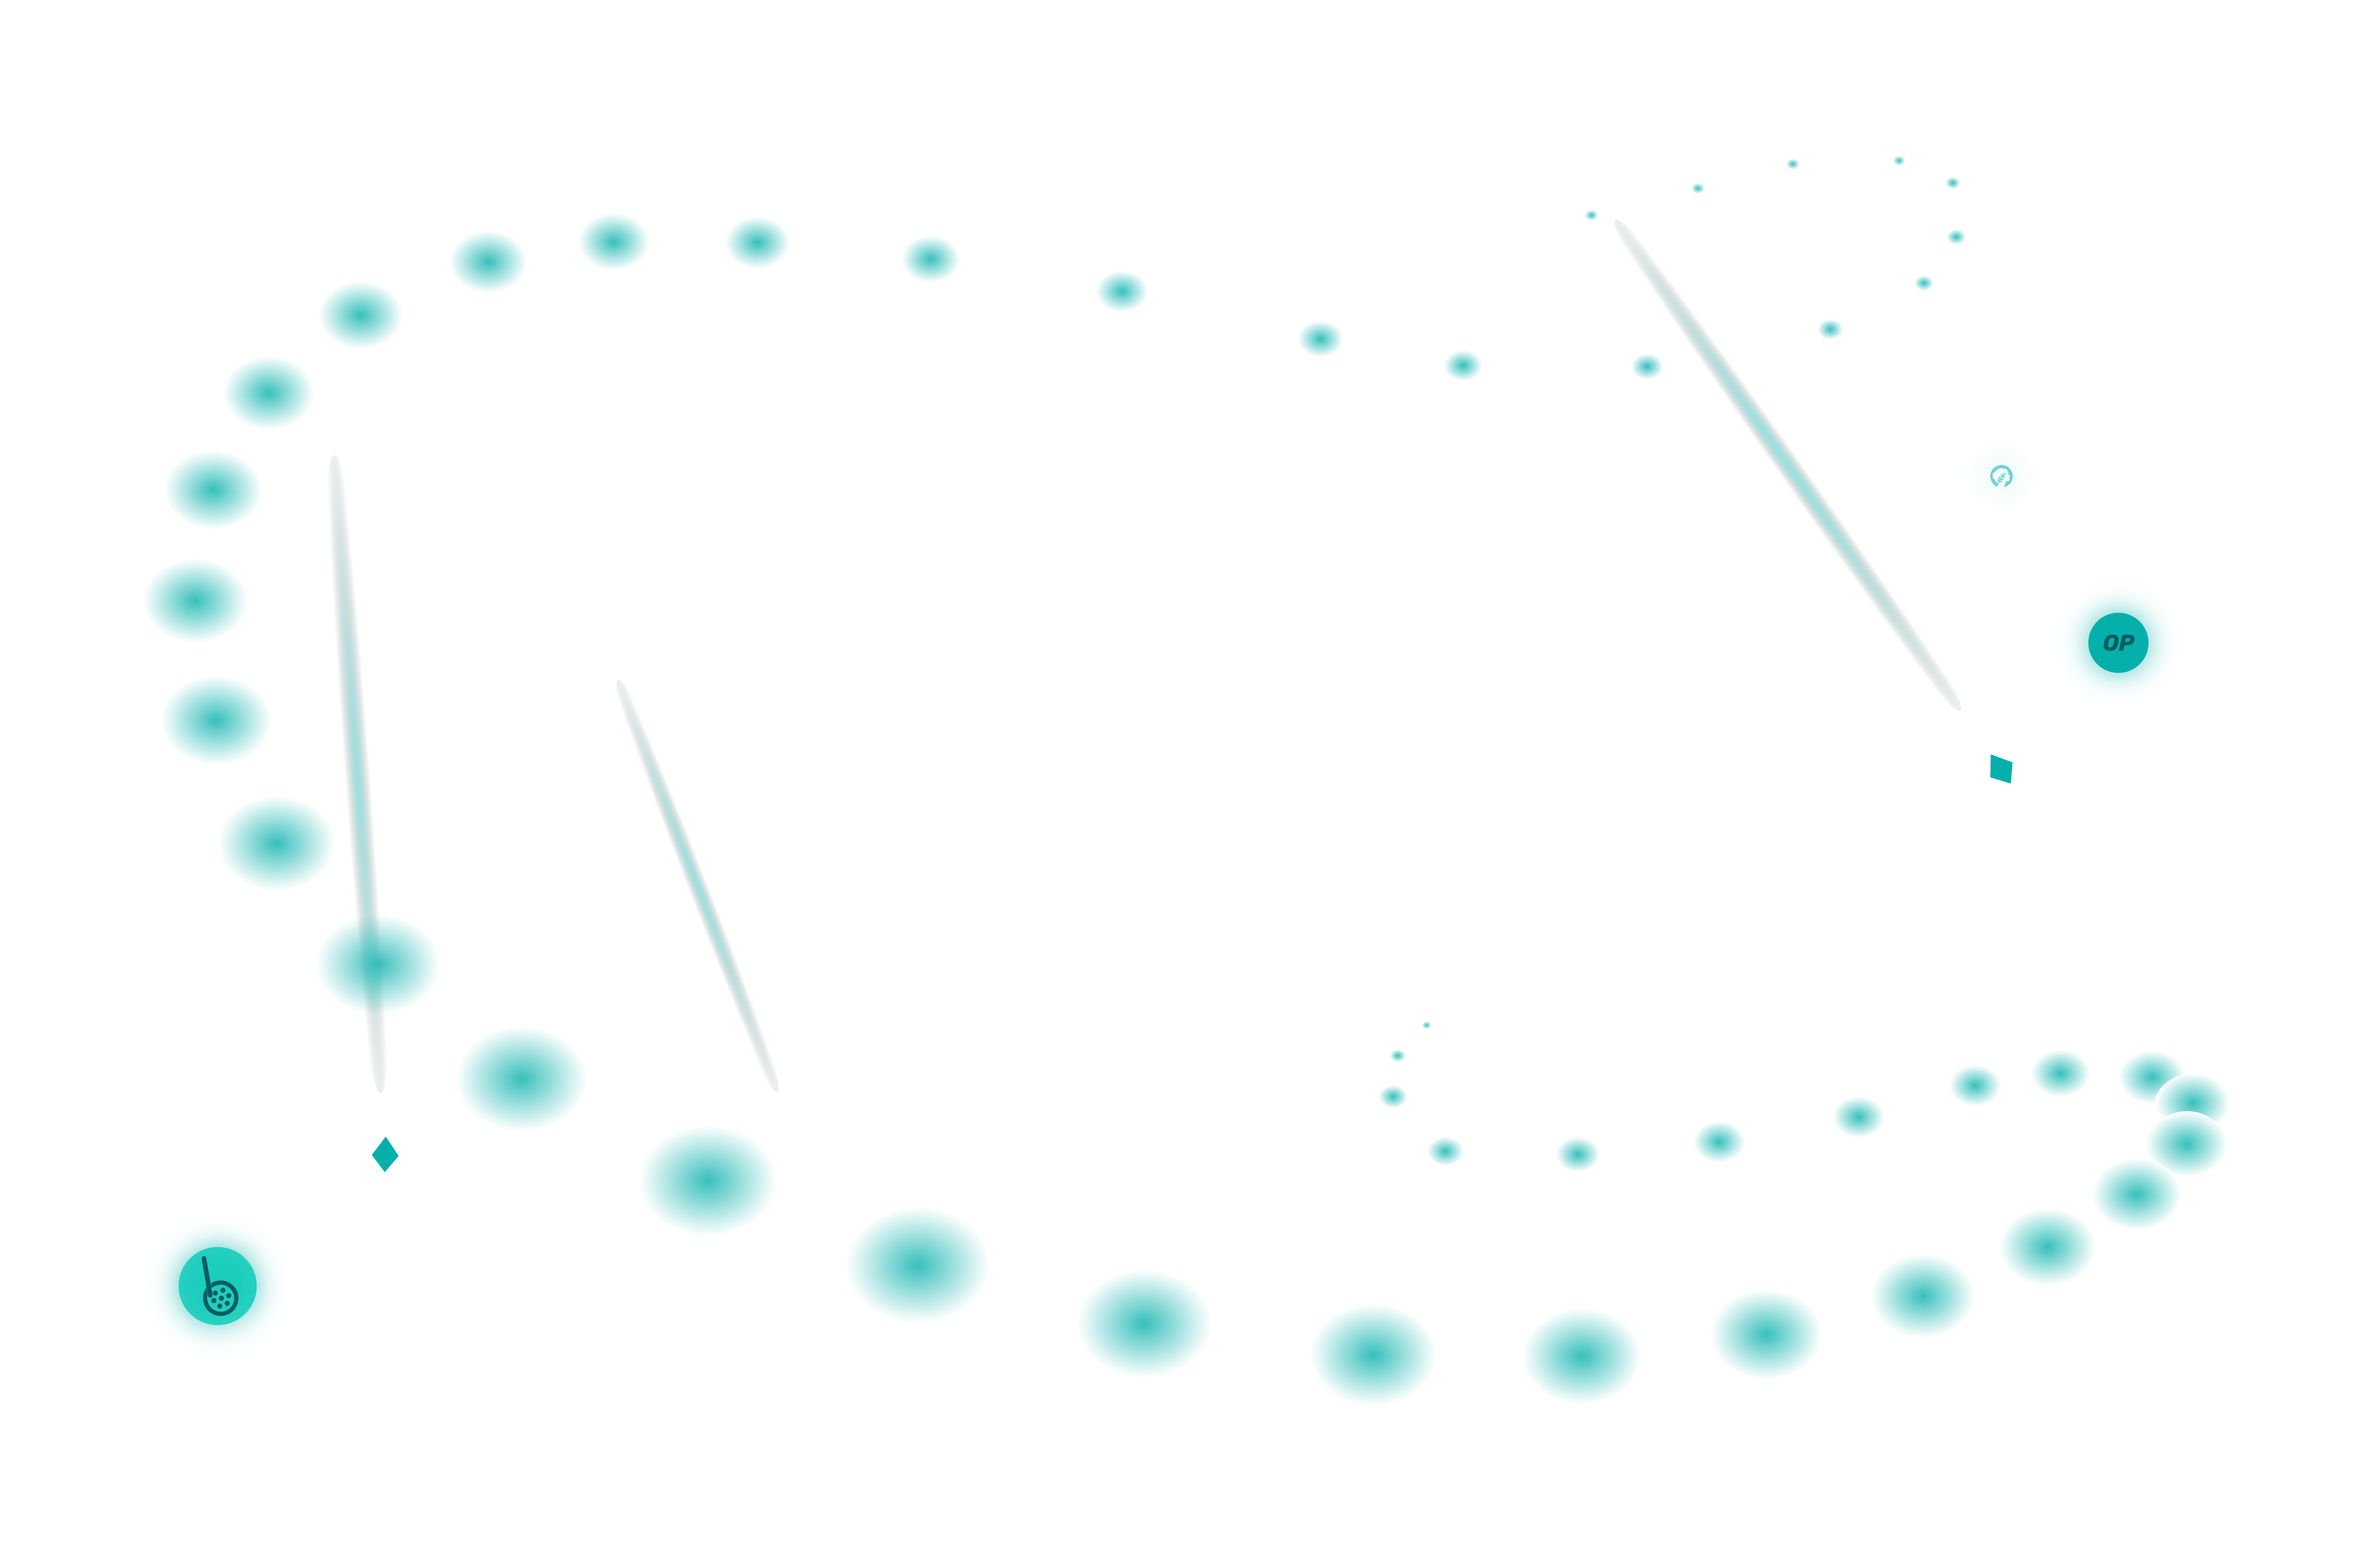
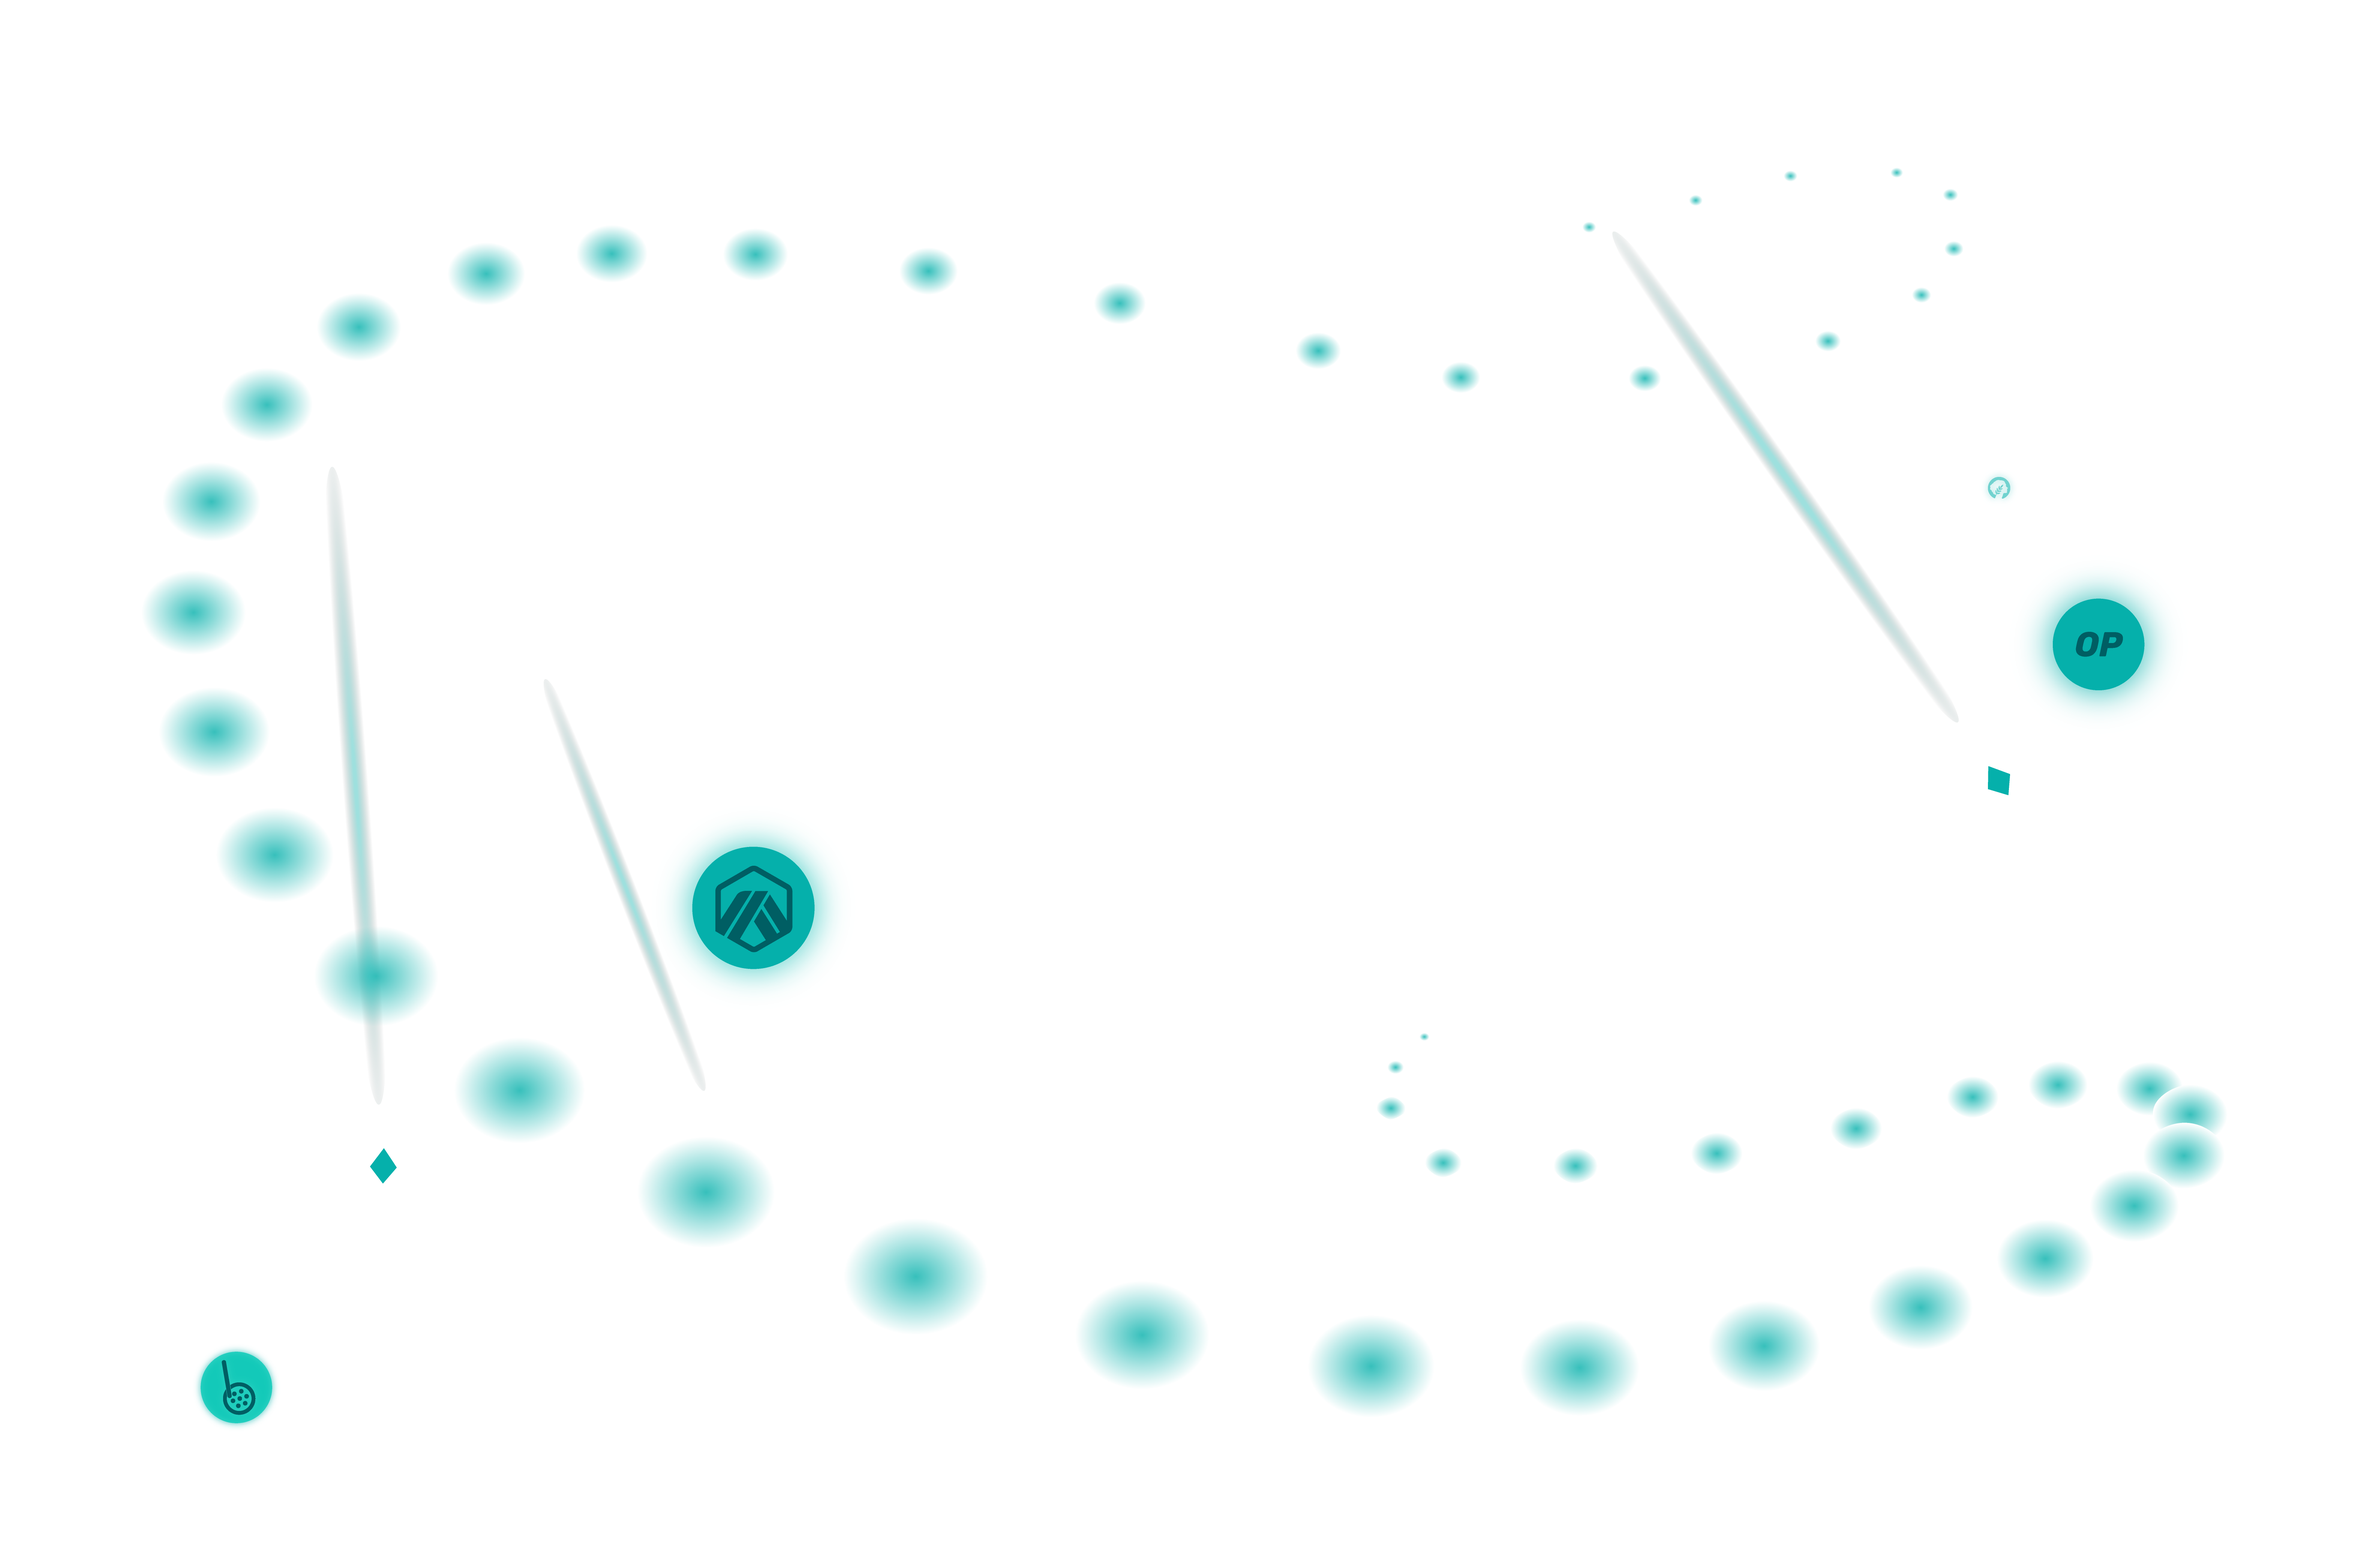
New hero image

diff --git a/site/pages/Index.vue b/site/pages/Index.vue
@@ -4,7 +4,7 @@
       class="relative flex h-[920px] justify-center overflow-hidden bg-radial-grey-teal-sea py-6 text-center md:h-[1024px] md:py-32 2xl:h-[1124px] 2xl:py-24"
     >
       <div
-        class="bg absolute top-0 left-0 z-10 h-full w-full bg-hero-beams bg-cover bg-[center_top_-5rem] bg-no-repeat"
+        class="bg absolute -top-16 left-0 z-10 h-full w-full bg-hero-beams bg-cover bg-[center_top_-5rem] bg-no-repeat"
       ></div>
       <div class="container z-20 flex flex-col items-center gap-9 text-center">
         <h1
